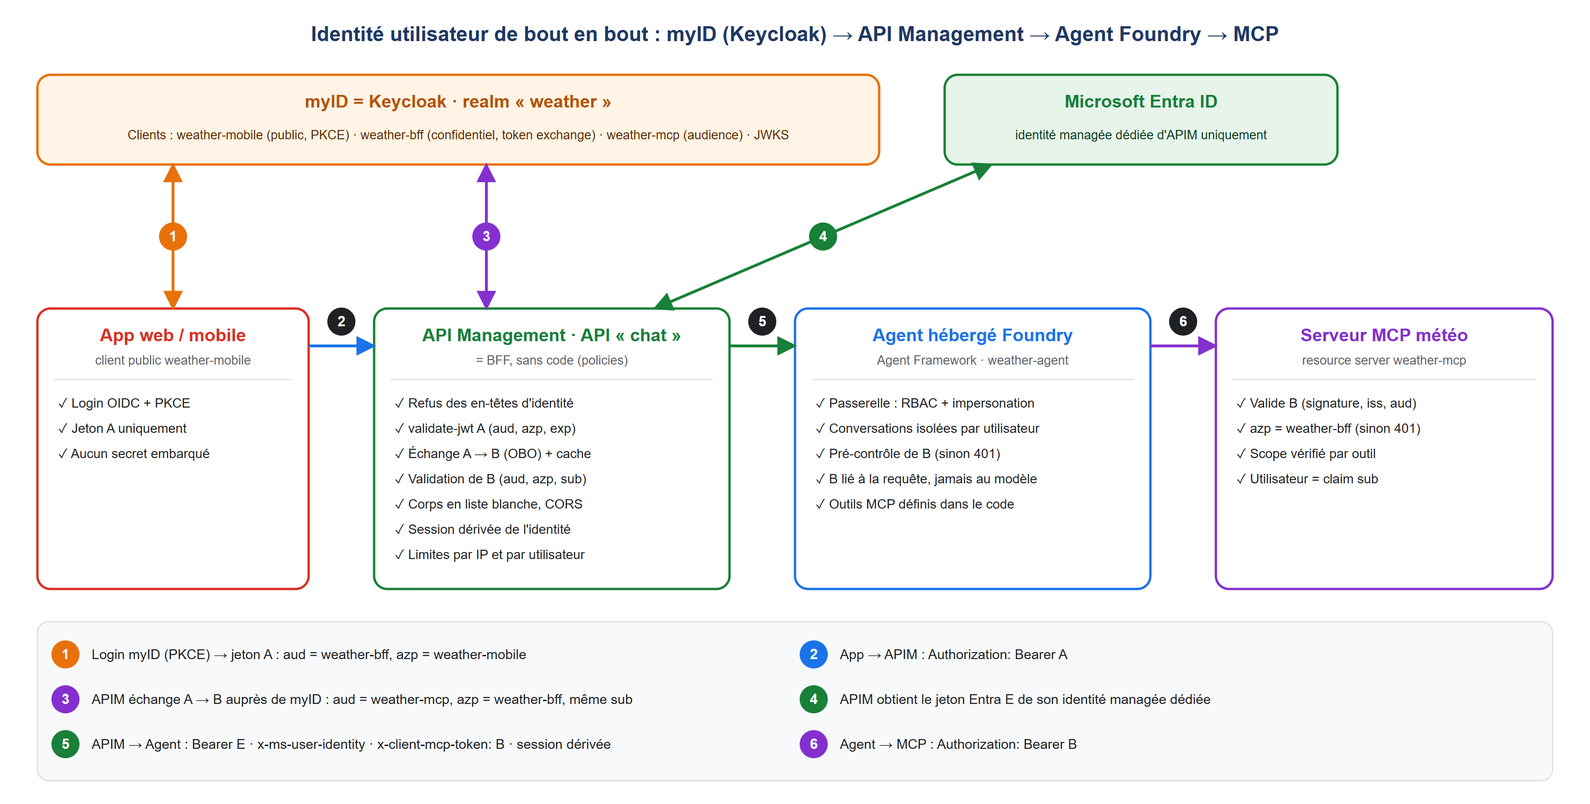
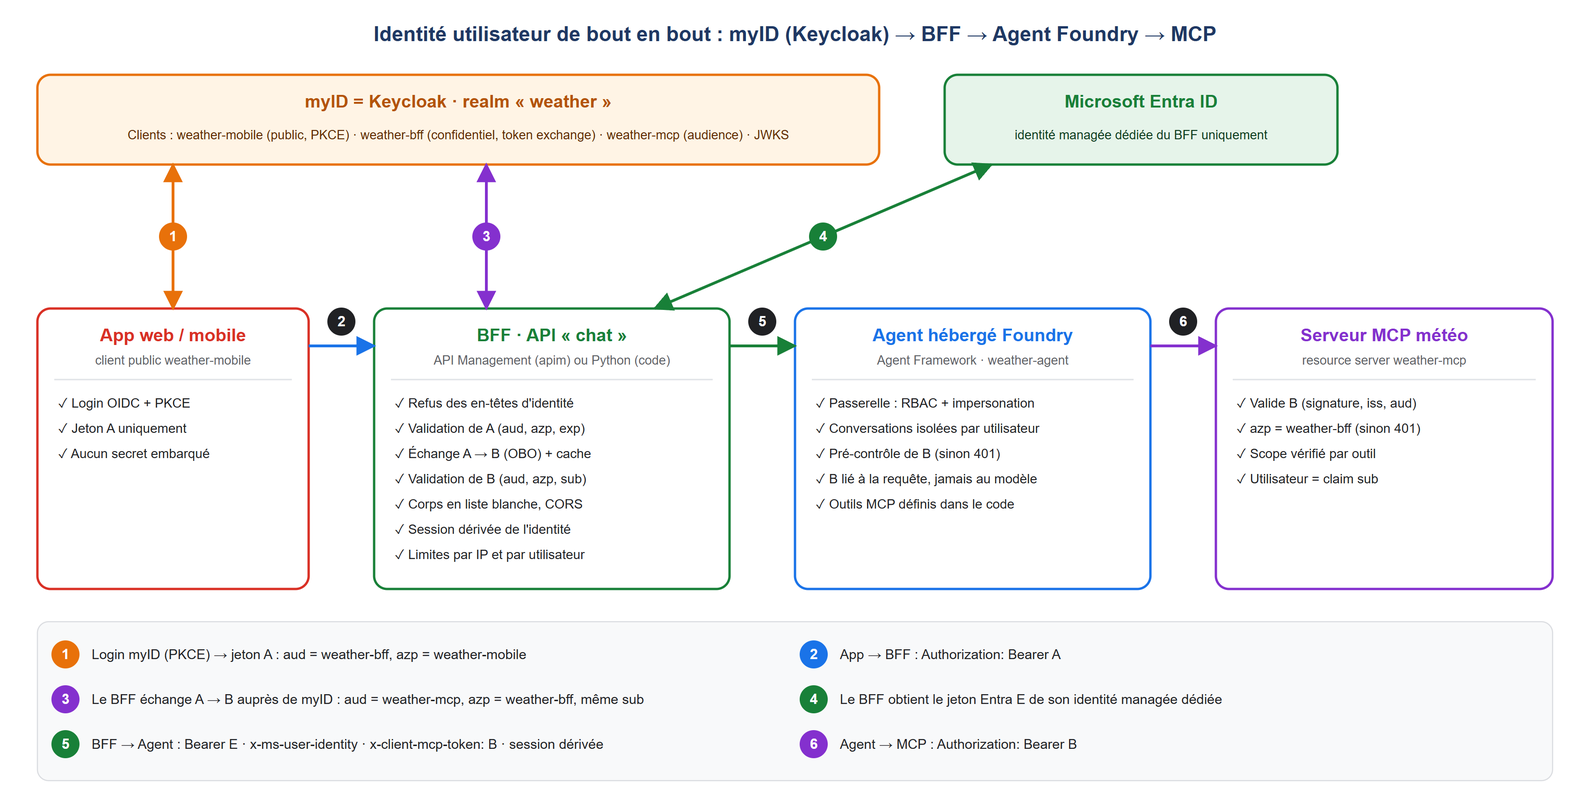
docs: two BFF implementations (BFF_MODE), APIM policy <-> Python mapping, OBO exchange in Python

diff --git a/docs/diagrams/architecture.py b/docs/diagrams/architecture.py
@@ -59,7 +59,7 @@ out.append(
 )
 
 # Title
-text(W / 2, 38, "Identité utilisateur de bout en bout : myID (Keycloak) → API Management → Agent Foundry → MCP", size=22, weight="bold", color="#1F3864")
+text(W / 2, 38, "Identité utilisateur de bout en bout : myID (Keycloak) → BFF → Agent Foundry → MCP", size=22, weight="bold", color="#1F3864")
 
 # Identity providers (top)
 rect(40, 80, 900, 96, "#FFF4E5", "#E8710A", rx=14, sw=2.5)
@@ -67,15 +67,15 @@ text(490, 110, "myID = Keycloak · realm « weather »", size=19, weight="bold",
 text(490, 145, "Clients : weather-mobile (public, PKCE) · weather-bff (confidentiel, token exchange) · weather-mcp (audience) · JWKS", size=13.5, color="#5F2B00")
 rect(1010, 80, 420, 96, "#E6F4EA", "#188038", rx=14, sw=2.5)
 text(1220, 110, "Microsoft Entra ID", size=19, weight="bold", color="#188038")
-text(1220, 145, "identité managée dédiée d'APIM uniquement", size=13.5, color="#0D3B1E")
+text(1220, 145, "identité managée dédiée du BFF uniquement", size=13.5, color="#0D3B1E")
 
 # Components (main chain)
 CY, CH = 330, 300
 comps = [
     (40, 290, "App web / mobile", "client public weather-mobile", ["Login OIDC + PKCE", "Jeton A uniquement", "Aucun secret embarqué"], "#D93025"),
-    (400, 380, "API Management · API « chat »", "= BFF, sans code (policies)", [
+    (400, 380, "BFF · API « chat »", "API Management (apim) ou Python (code)", [
         "Refus des en-têtes d'identité",
-        "validate-jwt A (aud, azp, exp)",
+        "Validation de A (aud, azp, exp)",
         "Échange A → B (OBO) + cache",
         "Validation de B (aud, azp, sub)",
         "Corps en liste blanche, CORS",
@@ -121,10 +121,10 @@ LY = 665
 rect(40, LY, 1620, 170, "#F8F9FA", "#DADCE0", rx=12, sw=1.2)
 steps = [
     ("1", "#E8710A", "Login myID (PKCE) → jeton A : aud = weather-bff, azp = weather-mobile"),
-    ("2", "#1A73E8", "App → APIM : Authorization: Bearer A"),
-    ("3", "#8430CE", "APIM échange A → B auprès de myID : aud = weather-mcp, azp = weather-bff, même sub"),
-    ("4", "#188038", "APIM obtient le jeton Entra E de son identité managée dédiée"),
-    ("5", "#188038", "APIM → Agent : Bearer E · x-ms-user-identity · x-client-mcp-token: B · session dérivée"),
+    ("2", "#1A73E8", "App → BFF : Authorization: Bearer A"),
+    ("3", "#8430CE", "Le BFF échange A → B auprès de myID : aud = weather-mcp, azp = weather-bff, même sub"),
+    ("4", "#188038", "Le BFF obtient le jeton Entra E de son identité managée dédiée"),
+    ("5", "#188038", "BFF → Agent : Bearer E · x-ms-user-identity · x-client-mcp-token: B · session dérivée"),
     ("6", "#8430CE", "Agent → MCP : Authorization: Bearer B"),
 ]
 for i, (n, color, desc) in enumerate(steps):

diff --git a/README.md b/README.md
@@ -1,32 +1,47 @@
-# POC : identité utilisateur de bout en bout (Keycloak / myID → APIM → Agent hébergé Foundry → MCP)
+# POC : identité utilisateur de bout en bout (Keycloak / myID → BFF → Agent hébergé Foundry → MCP)
 
 Ce POC montre comment propager l'identité d'un utilisateur authentifié par un **IdP externe OAuth 2 / OIDC**, ici un Keycloak qui joue le rôle de **myID**, jusqu'à un **serveur MCP**. Le chemin passe par un **agent hébergé Microsoft Foundry**, sans Entra ID pour les utilisateurs finaux.
 
-Le **BFF est Azure API Management** : il n'y a aucun code applicatif. Des policies APIM valident le jeton de l'application, obtiennent le jeton destiné au MCP par **échange de jeton On-Behalf-Of (RFC 8693)** et délèguent l'identité de l'utilisateur à Foundry. L'application ne détient jamais de jeton pour le MCP.
+Le **BFF** valide le jeton de l'application, obtient le jeton destiné au MCP par **échange de jeton On-Behalf-Of (RFC 8693)** et délègue l'identité de l'utilisateur à Foundry. L'application ne détient jamais de jeton pour le MCP. Le BFF existe en **deux implémentations interchangeables**, choisies par `BFF_MODE` :
+- **`apim`** (défaut) : des **policies Azure API Management**, sans aucun code applicatif ;
+- **`code`** : un **service Python** (FastAPI) qui montre l'échange de jeton en clair.
+
+Les deux respectent le même contrat d'API et passent la même suite de tests de sécurité.
 
 Cas d'usage : un chat qui donne la météo d'une ville. Les outils MCP connaissent l'utilisateur (`whoami`, favoris par utilisateur).
 
 > 📚 **Documentation détaillée** dans le répertoire [docs/](docs/) :
-> - [Architecture et flux d'authentification](docs/ARCHITECTURE.md) : schéma de flux, diagramme de séquence, jetons, contrôles de sécurité ;
+> - [Architecture et flux d'authentification](docs/ARCHITECTURE.md) : schéma de flux, diagramme de séquence, jetons, contrôles de sécurité, [correspondance policies APIM ↔ code Python](docs/ARCHITECTURE.md#8-deux-implémentations-du-bff-bff_mode) ;
 > - [Configuration Keycloak (myID)](docs/KEYCLOAK.md) ;
 > - [Principes d'authentification (Word)](docs/Authentification-principes.docx).
 
 ## Architecture
 
-![Architecture : myID (Keycloak) → API Management (BFF) → agent hébergé Foundry → serveur MCP](docs/diagrams/architecture.png)
+![Architecture : myID (Keycloak) → BFF (API Management ou service Python) → agent hébergé Foundry → serveur MCP](docs/diagrams/architecture.png)
 
 Détail des flux, des jetons et des contrôles : [docs/ARCHITECTURE.md](docs/ARCHITECTURE.md).
 
 | Problème | Solution |
 |---|---|
-| `"tools": Not allowed when agent is specified` | Les outils sont définis **dans le code de l'agent hébergé**. APIM reconstruit le corps de la requête : seuls `input` et `previous_response_id` passent (la session de l'agent est imposée par la passerelle). |
-| Foundry n'accepte que des jetons Entra | APIM appelle Foundry avec une **identité managée dédiée** (`id-apim-chat`) et délègue l'identité de l'utilisateur via `x-ms-user-identity` (rôle custom `UserIdentityImpersonation`). |
+| `"tools": Not allowed when agent is specified` | Les outils sont définis **dans le code de l'agent hébergé**. Le BFF reconstruit le corps de la requête : seuls `input` et `previous_response_id` passent (la session de l'agent est imposée par la passerelle). |
+| Foundry n'accepte que des jetons Entra | Le BFF appelle Foundry avec une **identité managée dédiée** (`id-apim-chat` ou `id-bff`) et délègue l'identité de l'utilisateur via `x-ms-user-identity` (rôle custom `UserIdentityImpersonation`). |
 | Le conteneur ne reçoit pas `Authorization` | Le jeton MCP passe dans l'en-tête **`x-client-mcp-token`**. Les en-têtes `x-client-*` sont les seuls en-têtes personnalisés que la passerelle Foundry transmet. |
-| Pas de jeton MCP sur le terminal | **OBO** : seul APIM (client confidentiel `weather-bff`) peut obtenir B, et le MCP n'accepte que `azp=weather-bff`. |
+| Pas de jeton MCP sur le terminal | **OBO** : seul le BFF (client confidentiel `weather-bff`) peut obtenir B, et le MCP n'accepte que `azp=weather-bff`. |
 | Usurpation d'identité par le client | Un client qui envoie `x-ms-user-identity`, `x-client-*` ou `x-agent-*` est **rejeté** (400). |
 | Concurrence entre utilisateurs | Le jeton est lié au contexte de la requête (`ContextVar`). Le `header_provider` reconnecte la session MCP quand l'identité change. |
 
-### Policies APIM ([platform/apim](platform/apim))
+### Le BFF : deux implémentations (`BFF_MODE`)
+
+| | `apim` (défaut) | `code` |
+|---|---|---|
+| Implémentation | policies [platform/apim](platform/apim) | service Python [platform/src/bff](platform/src/bff) |
+| Identité appelant Foundry | `id-apim-chat` | `id-bff` |
+| Tests | bout en bout | [tests locaux sans Azure](tools/test_bff_local.py) + bout en bout |
+| Déploiement | plus long et plus coûteux (API Management) | plus rapide (une Container App) |
+
+Correspondance détaillée policy ↔ fonction Python : [docs/ARCHITECTURE.md § 8](docs/ARCHITECTURE.md#8-deux-implémentations-du-bff-bff_mode).
+
+#### Mode `apim` : policies ([platform/apim](platform/apim))
 
 | Fichier | Rôle |
 |---|---|
@@ -40,7 +55,19 @@ Détail des flux, des jetons et des contrôles : [docs/ARCHITECTURE.md](docs/ARC
 
 Journalisation : Application Insights **sans en-têtes ni corps** (aucun jeton dans les journaux).
 
-> **Constat du test de sécurité** : Foundry isole les *conversations* entre utilisateurs délégués (`previous_response_id` d'un autre utilisateur → 404), mais **pas les sessions** (bac à sable du conteneur). C'est pourquoi la passerelle choisit elle-même la session de l'agent.
+#### Mode `code` : service Python ([platform/src/bff](platform/src/bff))
+
+| Fichier | Rôle (équivalent APIM) |
+|---|---|
+| `app.py` | routes `/chat/responses` et `/chat/me`, CORS, enchaînement des contrôles, corps en liste blanche (`api-chat.xml`, `op-*.xml`) |
+| `security.py` | refus des en-têtes d'identité, limites par IP et par utilisateur (`reject-sensitive-headers.xml`, `rate-limit-by-key`) |
+| `tokens.py` | validation de A, identité déléguée, **échange OBO** avec cache, validation de B (`validate-app-token.xml`, `obo-exchange.xml`) |
+| `foundry.py` | jeton Entra de `id-bff`, en-têtes de délégation, session dérivée, appel de l'agent (`foundry-delegation.xml`) |
+| `settings.py` | configuration (variables d'environnement) |
+
+Aucun jeton n'est journalisé ; la réponse de l'agent est relayée telle quelle.
+
+> **Constat du test de sécurité** : Foundry isole les *conversations* entre utilisateurs délégués (`previous_response_id` d'un autre utilisateur → 404), mais **pas les sessions** (bac à sable du conteneur). C'est pourquoi le BFF, dans les deux modes, choisit lui-même la session de l'agent.
 
 ## Arborescence
 
@@ -50,14 +77,16 @@ weather-agent/                    projet azd : projet Foundry + modèle + agent 
   infra/                          Bicep Foundry (issu de `azd ai agent init --infra`, resource group existant supporté)
   src/weather-agent/main.py       agent Agent Framework (middleware + MCP header_provider)
 platform/
-  infra/main.bicep                ACR, Container Apps (Keycloak, MCP, web), PostgreSQL, Key Vault, App Insights, APIM, identités, rôles Foundry
+  infra/main.bicep                ACR, Container Apps (Keycloak, MCP, web, BFF Python), PostgreSQL, Key Vault, App Insights, APIM, identités, rôles Foundry
   infra/apim-config.bicep         configuration APIM : named values, fragments, API « chat », diagnostics
-  apim/                           policies APIM (le BFF)
+  apim/                           policies APIM (le BFF en mode apim)
   keycloak/                       image Keycloak, realm-config.json (source de vérité), configure_realm.py
   src/mcp-weather/server.py       serveur MCP météo (Open-Meteo), validation JWT
+  src/bff/                        BFF Python (mode code) : même contrat que les policies APIM
   src/web/                        client web statique (nginx, oidc-client-ts, config et CSP injectées au démarrage)
   .env.example                    paramètres de déploiement → copier en platform/.env
-tools/e2e_test.py                 test de bout en bout et de sécurité (lancé par deploy.ps1)
+tools/e2e_test.py                 test de bout en bout et de sécurité (lancé par deploy.ps1, identique pour les deux modes)
+tools/test_bff_local.py           tests locaux du BFF Python (faux IdP + faux agent, sans Azure)
 tools/fake_idp.py                 faux émetteur OIDC (avec token exchange) pour les tests locaux
 docs/ARCHITECTURE.md              architecture et flux d'authentification (avec diagrammes)
 docs/KEYCLOAK.md                  configuration Keycloak / transposition au vrai myID
@@ -84,7 +113,7 @@ Le déploiement se fait **entièrement dans Azure** : les images sont construite
 
 **Droits Azure** : rôle **Owner** (ou *Contributor* + *User Access Administrator*) sur la souscription ou sur le resource group cible. Le déploiement crée un rôle personnalisé et des role assignments.
 
-**Région** : une région qui propose à la fois les **hosted agents Foundry**, le modèle `gpt-5.4-mini` (GlobalStandard) et **API Management v2**. Le POC est validé en **France Central**.
+**Région** : une région qui propose à la fois les **hosted agents Foundry**, le modèle `gpt-5.4-mini` (GlobalStandard) et, en mode `apim`, **API Management v2**. Le POC est validé en **France Central**.
 
 ### 2. Préparer le poste (une seule fois)
 
@@ -111,9 +140,10 @@ python -m venv .venv-dev
 Copy-Item platform\.env.example platform\.env
 ```
 
-Dans `platform/.env`, renseignez le nom de l'environnement (`AZD_ENVIRONMENT`), la région (`AZURE_LOCATION`) et le resource group (`AZURE_RESOURCE_GROUP`). Ce fichier ne contient **aucun secret** : ils sont générés par le script et stockés uniquement dans le Key Vault.
+Dans `platform/.env`, renseignez le nom de l'environnement (`AZD_ENVIRONMENT`), la région (`AZURE_LOCATION`), le resource group (`AZURE_RESOURCE_GROUP`) et le mode du BFF (`BFF_MODE` : `apim` ou `code`). Ce fichier ne contient **aucun secret** : ils sont générés par le script et stockés uniquement dans le Key Vault.
 - **Resource group existant** : il est réutilisé tel quel, avec sa région. **Ses tags ne sont jamais modifiés** : [weather-agent/infra/main.bicep](weather-agent/infra/main.bicep) ne crée le groupe que s'il n'existe pas, et `deploy.ps1` vérifie les tags après chaque étape.
 - Sinon, le resource group est créé.
+- **Un environnement = un mode** : `deploy.ps1` refuse de changer `BFF_MODE` sur un environnement existant. Pour comparer les deux modes, utilisez deux environnements (deux resource groups).
 
 ### 4. Déployer
 
@@ -121,13 +151,13 @@ Dans `platform/.env`, renseignez le nom de l'environnement (`AZD_ENVIRONMENT`), 
 pwsh ./deploy.ps1
 ```
 
-Durée : environ **30 à 45 minutes** pour un premier déploiement (API Management et PostgreSQL sont les plus longs). Le script enchaîne :
+Durée : environ **30 à 45 minutes** pour un premier déploiement en mode `apim` (API Management et PostgreSQL sont les plus longs), un peu moins en mode `code`. Le script enchaîne :
 1. création de l'environnement azd ;
 2. `azd provision` (projet Foundry et modèle) ;
-3. registre, environnement Container Apps, Key Vault, identités, App Insights et service API Management ;
+3. registre, environnement Container Apps, Key Vault, identités, App Insights et, en mode `apim`, service API Management ;
 4. génération des secrets dans le Key Vault et build distant des images ;
-5. PostgreSQL, Keycloak, MCP et application web ;
-6. configuration du realm Keycloak, puis de l'API « chat » d'APIM (les policies ont besoin du realm) ;
+5. PostgreSQL, Keycloak, MCP, application web et, en mode `code`, BFF Python ;
+6. configuration du realm Keycloak, puis, en mode `apim`, de l'API « chat » d'APIM (les policies ont besoin du realm) ;
 7. `azd deploy` de l'agent ;
 8. test de bout en bout et de sécurité (usurpation d'en-têtes, jeton falsifié, corps en liste blanche, accès croisé entre utilisateurs, CORS, limitation de débit).
 
@@ -179,13 +209,21 @@ Invoke-RestMethod http://127.0.0.1:8088/responses -Method Post -ContentType 'app
 
 Dans VS Code, **F5** lance l'agent local avec le débogueur et ouvre l'Agent Inspector de Foundry Toolkit. Il faut fournir l'en-tête `x-client-mcp-token`, sinon l'agent répond 401.
 
+**BFF Python** (mode `code`) : 35 contrôles de sécurité en local, sans Azure, avec le faux IdP (qui sait faire l'échange de jeton) et un faux agent :
+
+```powershell
+.\.venv-dev\Scripts\pip install -r platform\src\bff\requirements.txt starlette
+.\.venv-dev\Scripts\python tools\test_bff_local.py
+```
+
 Les policies APIM ne s'exécutent pas localement : elles sont validées par le test de bout en bout ([tools/e2e_test.py](tools/e2e_test.py)) lancé à chaque déploiement.
 
 ## Sécurité : ce qui reste à faire pour la production
 
 - Keycloak en haute disponibilité (AKS + Keycloak Operator), PostgreSQL en haute disponibilité et en accès privé, custom domain, WAF, console d'administration non exposée.
 - Authentifier `weather-bff` (utilisé par APIM) par `private_key_jwt` ou mTLS plutôt que par un secret.
-- Front Door + WAF devant APIM, puis APIM et backends en réseau privé.
+- Front Door + WAF devant le BFF, puis BFF et backends en réseau privé.
+- BFF Python : plusieurs réplicas avec une limitation de débit partagée (Azure Cache for Redis).
 - Placer aussi le serveur MCP derrière APIM (`validate-jwt`, rate limiting), ou le rendre privé.
 - Persister l'état du MCP (favoris) dans un vrai stockage, partitionné par `sub`.
 - Mettre en place des alertes sur les échecs de validation et d'échange de jetons (App Insights d'APIM, logs MCP et Keycloak).

diff --git a/docs/KEYCLOAK.md b/docs/KEYCLOAK.md
@@ -6,8 +6,8 @@ La source de vérité est [platform/keycloak/realm-config.json](../platform/keyc
 
 ```
 App (weather-mobile) ──PKCE──► Keycloak ──► jeton A (aud=weather-bff, azp=weather-mobile)
-App ──Bearer A──► APIM « chat » = BFF (client weather-bff) ──token-exchange A→B──► Keycloak ──► jeton B (aud=weather-mcp, azp=weather-bff)
-APIM ──► Foundry (x-client-mcp-token: B) ──► Agent ──Bearer B──► MCP (valide iss, aud, azp, scope → sub)
+App ──Bearer A──► BFF (APIM ou Python, client weather-bff) ──token-exchange A→B──► Keycloak ──► jeton B (aud=weather-mcp, azp=weather-bff)
+BFF ──► Foundry (x-client-mcp-token: B) ──► Agent ──Bearer B──► MCP (valide iss, aud, azp, scope → sub)
 ```
 
 ## 1. Realm `weather`
@@ -24,7 +24,7 @@ APIM ──► Foundry (x-client-mcp-token: B) ──► Agent ──Bearer B─
 | Client | Type | Réglages | Rôle |
 |---|---|---|---|
 | `weather-mobile` | **Public** | Standard flow uniquement, **PKCE S256 obligatoire**, redirect URIs = URL de l'application web (`ca-web`) ou Universal / App Links (mobile), aucun secret | L'application mobile ou web qui authentifie l'utilisateur |
-| `weather-bff` | **Confidentiel** | Aucun flux interactif, **`standard.token.exchange.enabled = true`**, authentification par secret (POC) | Le BFF, porté par **API Management** (secret lu depuis Key Vault par une named value), seul autorisé à échanger A contre B |
+| `weather-bff` | **Confidentiel** | Aucun flux interactif, **`standard.token.exchange.enabled = true`**, authentification par secret (POC) | Le BFF, porté par **API Management** (secret lu depuis Key Vault par une named value) ou par le **service Python** (secret injecté depuis Key Vault par Container Apps), seul autorisé à échanger A contre B |
 | `weather-mcp` | Confidentiel, aucun flux | Sert uniquement de **cible d'audience** | Le serveur MCP (resource server) |
 
 ## 3. Client scopes et audiences
@@ -32,7 +32,7 @@ APIM ──► Foundry (x-client-mcp-token: B) ──► Agent ──Bearer B─
 | Client scope | Rattaché à | Mapper | Effet |
 |---|---|---|---|
 | `weather-bff-audience` | `weather-mobile` (défaut) | Audience → `weather-bff` | A contient `aud=weather-bff`. C'est **obligatoire** : Keycloak refuse l'échange si le client demandeur n'est pas dans l'`aud` du jeton d'origine |
-| `weather:read` | `weather-bff` (optionnel) | Audience → `weather-mcp` | Ajouté à B quand APIM demande `scope=weather:read favorites:write` |
+| `weather:read` | `weather-bff` (optionnel) | Audience → `weather-mcp` | Ajouté à B quand le BFF demande `scope=weather:read favorites:write` |
 | `favorites:write` | `weather-bff` (optionnel) | Audience → `weather-mcp` + scope mapping vers le rôle `weather-premium` | N'apparaît dans B **que si l'utilisateur a le rôle** `weather-premium` |
 
 Rôles du realm : `weather-basic` (Bob) et `weather-premium` (Alice).
@@ -49,7 +49,7 @@ Rôles du realm : `weather-basic` (Bob) et `weather-premium` (Alice).
 
 | Composant | Vérifie |
 |---|---|
-| APIM (API « chat ») | A : signature (JWKS du realm), `iss`, `aud ∋ weather-bff`, **`azp = weather-mobile`**, `exp`. Puis B : même `sub`, **`azp = weather-bff`**, `weather:read` présent |
+| BFF (APIM ou Python) | A : signature (JWKS du realm), `iss`, `aud ∋ weather-bff`, **`azp = weather-mobile`**, `exp`. Puis B : même `sub`, **`azp = weather-bff`**, `weather:read` présent |
 | Agent | Pré-contrôle de B (signature, `iss`, `aud`, `exp`). Sans jeton valide, il répond 401 avant tout appel au modèle |
 | Serveur MCP | B : signature, `iss`, `aud ∋ weather-mcp`, **`azp ∈ MCP_ALLOWED_AZP`** (`weather-bff`), scope par outil. L'identité vient de `sub` |
 
@@ -68,15 +68,15 @@ Le contrôle `azp = weather-bff` côté MCP garantit qu'aucun jeton demandé dir
 1. Créer les trois clients du §2 et les client scopes du §3, avec les mappers Audience.
 2. Activer le **Standard Token Exchange** sur `weather-bff`. En production, l'authentifier par **`private_key_jwt` ou certificat X.509 (mTLS)** plutôt que par un secret.
 3. Fixer les durées de vie (A : 5 à 10 min, B : 5 min) et activer la rotation des refresh tokens.
-4. Rendre le token endpoint et la JWKS du realm joignables depuis Azure (APIM, agent, MCP).
-5. Côté POC, il suffit de changer l'émetteur (`OIDC_ISSUER`, `OIDC_JWKS_URI`) et le secret de `weather-bff` (secret Key Vault lu par APIM). Ni le code ni les policies ne changent.
+4. Rendre le token endpoint et la JWKS du realm joignables depuis Azure (BFF, agent, MCP).
+5. Côté POC, il suffit de changer l'émetteur (`OIDC_ISSUER`, `OIDC_JWKS_URI`) et le secret de `weather-bff` (secret Key Vault lu par le BFF). Ni le code ni les policies ne changent.
 
 ## 8. Dépannage
 
 | Symptôme | Cause probable |
 |---|---|
-| `token_exchange_failed` (APIM, 502) | `standard.token.exchange.enabled` désactivé, mauvais secret, ou `weather-bff` absent de l'`aud` de A |
-| `insufficient_scope` (APIM, 403) | Client scope `weather:read` non rattaché (optionnel) à `weather-bff` |
+| `token_exchange_failed` (BFF, 502) | `standard.token.exchange.enabled` désactivé, mauvais secret, ou `weather-bff` absent de l'`aud` de A |
+| `insufficient_scope` (BFF, 403) | Client scope `weather:read` non rattaché (optionnel) à `weather-bff` |
 | `Access token was issued to an unexpected client application` | Le jeton ne vient pas de `weather-mobile` |
 | MCP 401 | Jeton A envoyé directement, audience ou `azp` incorrects, ou jeton expiré |
 | Login : `Invalid redirect uri` | L'URL de l'application web est absente des redirect URIs de `weather-mobile` (relancer `deploy.ps1`) |

diff --git a/AGENTS.md b/AGENTS.md
@@ -5,7 +5,7 @@ This project was built with the microsoft-foundry skill. Before working on or an
 ## Project layout
 
 - `weather-agent/` — azd project (Foundry project, model deployment, hosted agent in `src/weather-agent/`). Run azd commands from this folder, always with `-e <environment>`. Foundry infra is ejected in `weather-agent/infra/`: the resource group is only created when it does not exist (`AZURE_USE_EXISTING_RESOURCE_GROUP`); never re-tag an existing resource group.
-- `platform/` — Bicep (`infra/main.bicep`), Keycloak image and realm configuration (`keycloak/`), APIM policies that implement the BFF (`apim/`, deployed by `infra/apim-config.bicep`), sources of the MCP server and static web client (`src/`).
+- `platform/` — Bicep (`infra/main.bicep`), Keycloak image and realm configuration (`keycloak/`), the BFF in two interchangeable implementations selected by `BFF_MODE` (APIM policies in `apim/`, deployed by `infra/apim-config.bicep`; Python service in `src/bff/`), sources of the MCP server and static web client (`src/`).
 - `deploy.ps1` / `teardown.ps1` — deploy or remove one environment (one resource group) from `platform/.env`. ACR remote builds, no local Docker.
 - `docs/KEYCLOAK.md` — identity provider (Keycloak / myID) configuration.
 
@@ -16,6 +16,6 @@ This project was built with the microsoft-foundry skill. Before working on or an
 - The user token reaches the container only via the `x-client-mcp-token` header and is kept in a request-scoped ContextVar. Never log it, put it in prompts/history/tool arguments, or write it to `$HOME`.
 - `x-ms-user-identity` is derived server-side from the validated `iss` + `sub`.
 - The MCP server accepts only tokens issued to the BFF (`MCP_ALLOWED_AZP`), derives the user from the validated `sub` claim only and checks scopes per tool.
-- The BFF is API Management (API `chat`): keep the fragment order (reject identity headers -> validate A -> OBO exchange + validate B -> delegation) and the request body allow-list. Only the dedicated identity `id-apim-chat` may hold the Foundry impersonation role. APIM diagnostics must never log headers or bodies.
-- The hosted-agent session (`agent_session_id`) is derived by APIM from the validated identity; never accept it from the client (Foundry does not fence delegated users at session level).
+- The BFF (API Management API `chat` or Python service `src/bff`) must keep the SAME contract and step order in both modes (reject identity headers -> validate A -> OBO exchange + validate B -> delegation) and the request body allow-list; any change must be made in both implementations and covered by `tools/e2e_test.py` (and `tools/test_bff_local.py` for the Python BFF). Only the dedicated identity of the active mode (`id-apim-chat` or `id-bff`) may hold the Foundry impersonation role; one mode per environment. Never log headers, bodies or tokens.
+- The hosted-agent session (`agent_session_id`) is derived by the BFF from the validated identity; never accept it from the client (Foundry does not fence delegated users at session level).
 - Secrets live only in Key Vault; never commit them or write them to `platform/.env`.
